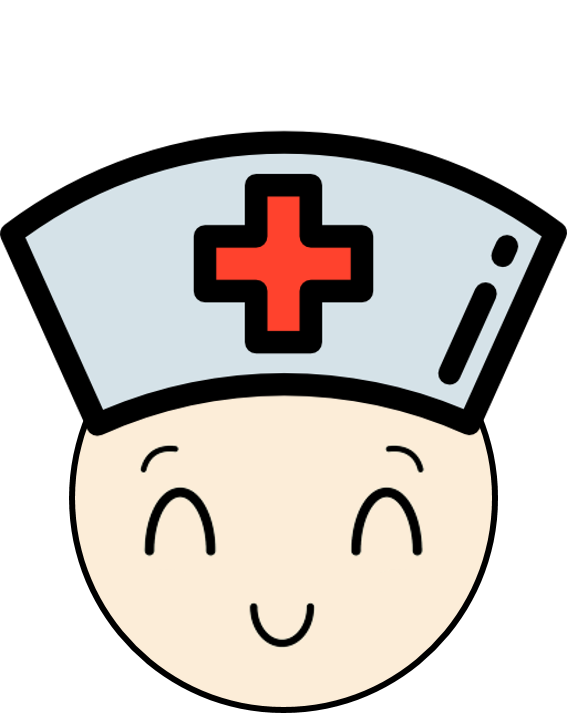
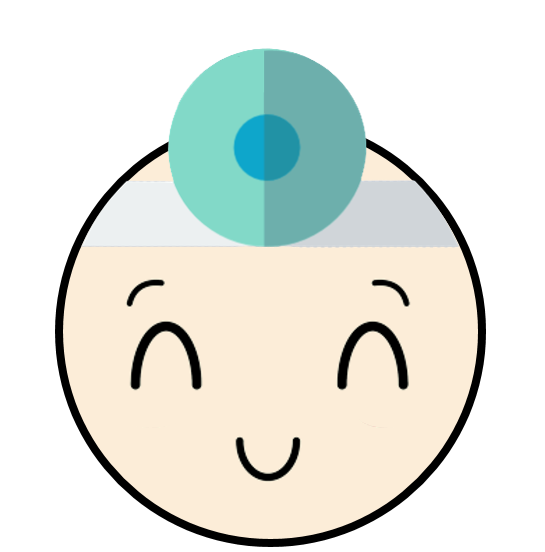
feat: 직업 카드

diff --git a/mafiace-frontend/src/pages/ingame/Ingame.js b/mafiace-frontend/src/pages/ingame/Ingame.js
@@ -6,6 +6,7 @@ import UserVideoComponent from "../../components/ingame/UserVideoComponent";
 import Day from "../../components/ingame/Day";
 import Night from "../../components/ingame/Night";
 import Count321 from "../../components/ingame/Count321";
+import JobCard from "../../components/ingame/JobCard";
 
 import * as React from "react";
 import axios from "axios";
@@ -30,6 +31,7 @@ const Ingame = ({ setIngame, gameInfo, token, ingame }) => {
   const [loading, setLoding] = useState(true);
   const [start, setStart] = useState(false);
   const [count321, setCount321] = useState(false);
+  const [openJobCard, setopenJobCard] = useState(false);
 
   // 웹 소켓
   const $websocket = useRef(null);
@@ -40,7 +42,7 @@ const Ingame = ({ setIngame, gameInfo, token, ingame }) => {
   const [timer, setTimer] = useState(); // 타이머
   const [count, setCount] = useState(1); // 날짜
   const [stateMessage, setStateMessage] = useState(gameInfo.gameTitle); // 헤더 상태메세지
-  const [myRole, setMyRole] = useState(); // 내 직업
+  const [myRole, setMyRole] = useState(""); // 내 직업
   const [isVoted, setIsVoted] = useState(false); // 투표완료 유무
   const [myVote, setMyVote] = useState("default"); // 내가 투표한 사람의 닉네임
   const [deathList, setDeathList] = useState([]); // 죽은 사람들 닉네임
@@ -236,6 +238,10 @@ const Ingame = ({ setIngame, gameInfo, token, ingame }) => {
     console.log(mainStreamManager);
   };
 
+  const clickJob = () => {
+    setopenJobCard(true);
+  };
+
   const clickStart = () => {
     console.log("====================START======================");
     $websocket.current.sendMessage(`/app/timer/${gameInfo.id}`);
@@ -244,6 +250,7 @@ const Ingame = ({ setIngame, gameInfo, token, ingame }) => {
 
   const startGame = () => {
     setCount321(false);
+    setopenJobCard(true);
     console.log("====================시작!============================");
     setStart(true);
     setDay(true);
@@ -284,6 +291,11 @@ const Ingame = ({ setIngame, gameInfo, token, ingame }) => {
 
   return (
     <div>
+      <JobCard
+        openJobCard={openJobCard}
+        setopenJobCard={setopenJobCard}
+        myRole={myRole}
+      />
       {loading ? (
         <Loader msg="입장 중..." />
       ) : (
@@ -306,7 +318,7 @@ const Ingame = ({ setIngame, gameInfo, token, ingame }) => {
                   $websocket.current.sendMessage(
                     `/app/role/${gameInfo.id}/${nickname}`
                   );
-                }, 3100);
+                }, 4000);
               } else if (msg === "day") {
                 setTimeout(() => {
                   for (var idx in subscribers) {
@@ -347,6 +359,8 @@ const Ingame = ({ setIngame, gameInfo, token, ingame }) => {
                   }
                 }, 3000);
               } else if (msg.check === "role") {
+                console.log("==================");
+                console.log(msg.role);
                 setMyRole(msg.role);
               } else if (msg.check === "investigate") {
                 console.log("경찰이 조사한 대상의 직업" + msg.role);
@@ -459,6 +473,9 @@ const Ingame = ({ setIngame, gameInfo, token, ingame }) => {
                 <button onClick={handleClick}>버튼</button>
                 {gameInfo.ownerId === userId && !start ? (
                   <button onClick={clickStart}>START</button>
+                ) : null}
+                {start ? (
+                  <button onClick={clickJob}> 직업카드 열기</button>
                 ) : null}
                 <input
                   className="btn btn-large btn-danger"

diff --git a/mafiace-frontend/src/components/ingame/JobCard.js b/mafiace-frontend/src/components/ingame/JobCard.js
@@ -1,0 +1,56 @@
+import React from "react";
+import { Card, Modal } from "semantic-ui-react";
+import styles from "./job-card.module.css";
+import "../../style.css";
+import { useEffect } from "react";
+
+const JobCard = ({ openJobCard, setopenJobCard, myRole }) => {
+  const korJobName = {
+    Police: "경찰",
+    Doctor: "의사",
+    Citizen: "시민",
+    Mafia: "마피아",
+  };
+
+  const jobDesc = {
+    Police:
+      "매일 밤 용의자 한 명을 수사해 신분을 파악할 수 있습니다. 섣불리 나섰다간 1순위 제거 대상!",
+    Doctor:
+      "매일 밤 위급한 환자 한 명을 살릴 수 있습니다. 물론 셀프 치료도 가능합니다.",
+    Citizen:
+      "순진무구한 여러분 동네에 마피아가 잠입하였습니다. 다른 시민들과 힘을 합쳐 마을을 구해주세요!",
+    Mafia:
+      "매일 밤 무고한 시민 한 명을 제거할 수 있습니다. 시민들을 속여 마을을 장악하세요!",
+  };
+
+  useEffect(() => {
+    console.log(myRole);
+  }, [myRole]);
+
+  return (
+    <Modal
+      open={openJobCard}
+      className={styles["job-card-modal"]}
+      onClose={() => setopenJobCard(false)}
+      onOpen={() => setopenJobCard(true)}
+    >
+      <Card className={styles["job-card"]}>
+        <img
+          src={`./img/${myRole.toLowerCase()}.png`}
+          alt=""
+          className={styles["job-card-image"]}
+        />
+        <Card.Content>
+          <Card.Header style={{ fontSize: "2em" }}>
+            {korJobName[myRole]}{" "}
+          </Card.Header>
+          <Card.Description style={{ margin: 0 }}>
+            {jobDesc[myRole]}
+          </Card.Description>
+        </Card.Content>
+      </Card>
+    </Modal>
+  );
+};
+
+export default JobCard;

diff --git a/mafiace-frontend/src/components/ingame/job-card.module.css b/mafiace-frontend/src/components/ingame/job-card.module.css
@@ -1,0 +1,57 @@
+@import url("https://fonts.googleapis.com/css2?family=Dongle&display=swap");
+
+@-webkit-keyframes float {
+  0% {
+    box-shadow: 0 5px 15px 0px rgba(0, 0, 0, 0.6);
+    transform: translatey(0px);
+  }
+  50% {
+    box-shadow: 0 25px 15px 0px rgba(0, 0, 0, 0.2);
+    transform: translatey(-20px);
+  }
+  100% {
+    box-shadow: 0 5px 15px 0px rgba(0, 0, 0, 0.6);
+    transform: translatey(0px);
+  }
+}
+
+@keyframes float {
+  0% {
+    box-shadow: 0 5px 15px 0px rgba(0, 0, 0, 0.6);
+    transform: translatey(0px);
+  }
+  50% {
+    box-shadow: 0 25px 15px 0px rgba(0, 0, 0, 0.2);
+    transform: translatey(-20px);
+  }
+  100% {
+    box-shadow: 0 5px 15px 0px rgba(0, 0, 0, 0.6);
+    transform: translatey(0px);
+  }
+}
+
+.job-card {
+  box-sizing: border-box;
+  border-radius: 10% !important;
+  margin: auto !important;
+  box-shadow: 2px 12px 15px 2px rgb(0, 0, 0, 0.6) !important;
+  width: 100% !important;
+  font-size: 2.3em !important;
+}
+
+.job-card div {
+  font-family: "Dongle", sans-serif !important;
+}
+
+.job-card-modal {
+  -webkit-box-shadow: none !important;
+  background: none !important;
+  width: 350px !important;
+}
+
+.job-card-image {
+  width: 80%;
+  height: auto;
+  margin: auto;
+  padding: 1em !important;
+}

diff --git a/mafiace-frontend/src/style.css b/mafiace-frontend/src/style.css
@@ -112,3 +112,7 @@ span {
     color-stop(1, rgb(150, 197, 228))
   );
 }
+
+.ui.dimmer {
+  background-color: rgba(0, 0, 0, 0) !important;
+}
